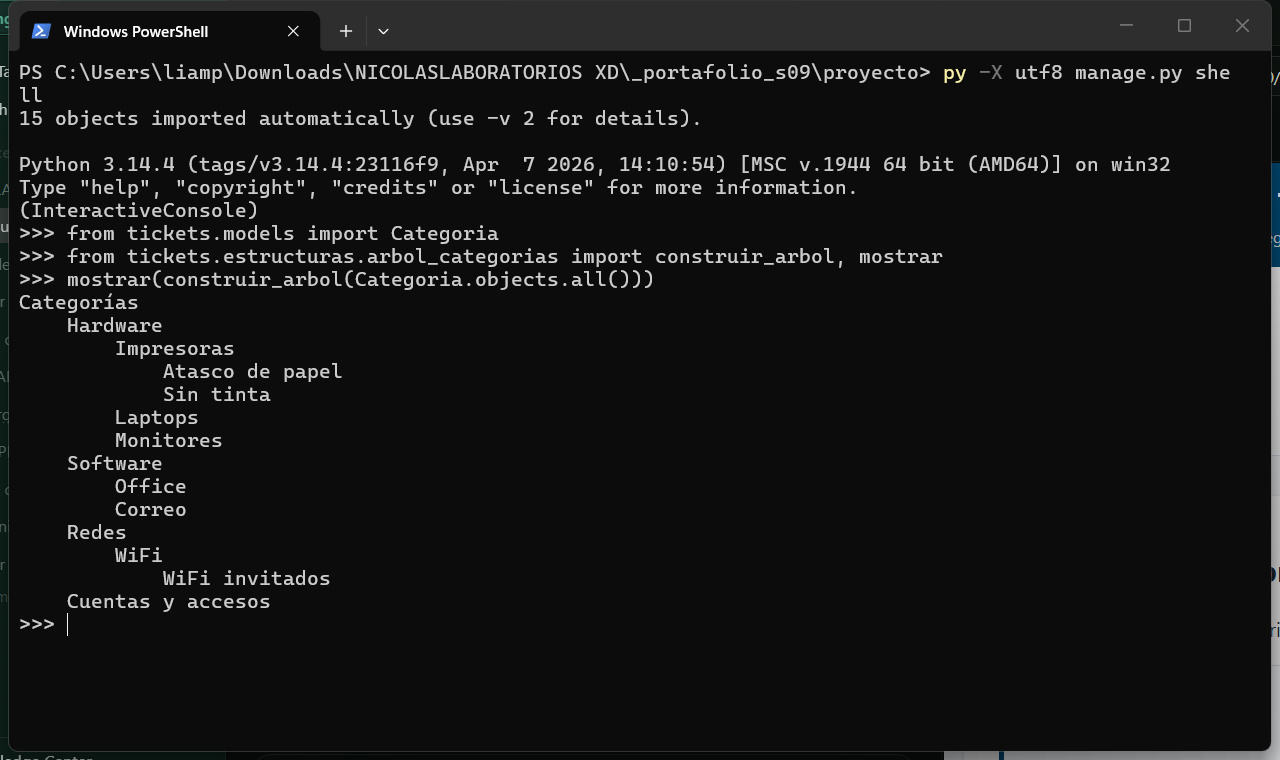
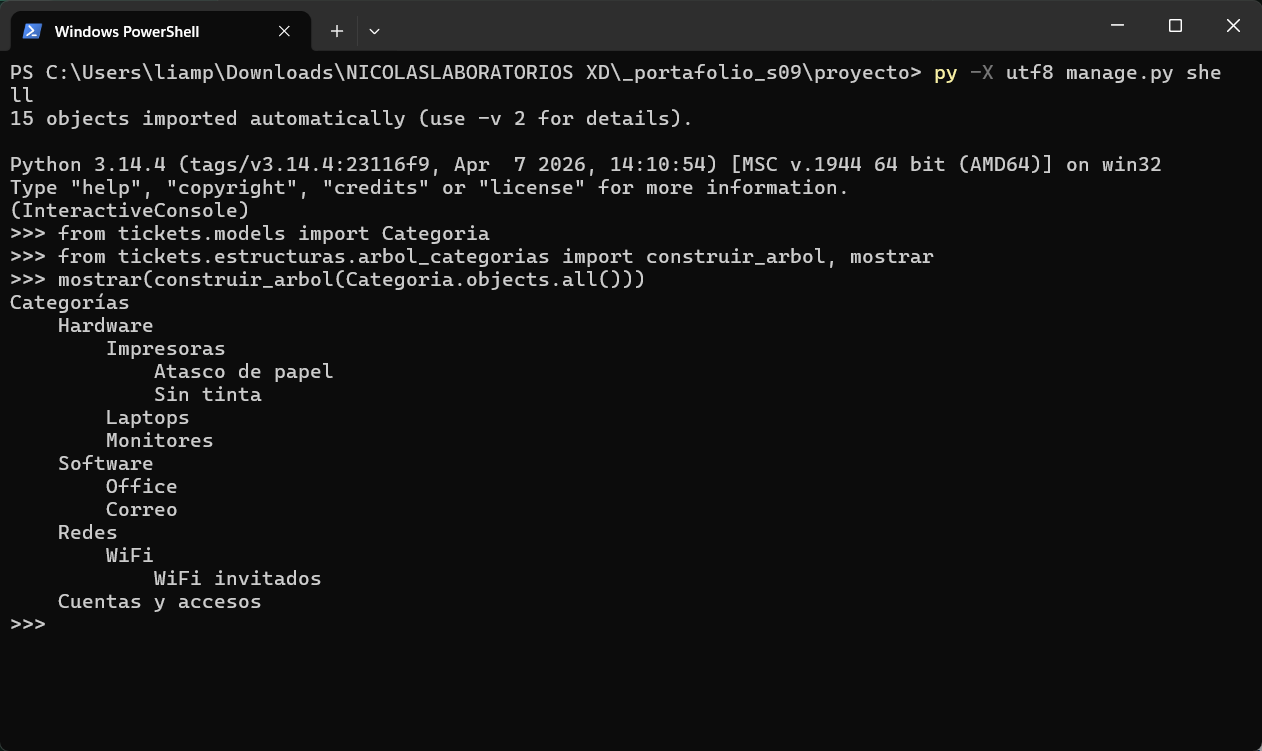
S09: enlace del push y captura limpia del arbol en shell

diff --git a/README.md b/README.md
@@ -65,15 +65,9 @@ descendiente de la propia categoría.
 
 ### Commit de la Semana 9
 
-Pendiente de subir al repositorio del equipo:
+Enlace del commit: https://github.com/NIckKIng6969/soporte-tickets-django/commit/53f38ec15d35c71909c65532af6b72c8cede5214
 
-```bash
-git add .
-git commit -m "S09: menú de categorías con árbol genérico"
-git push
-```
-
-Enlace del commit: _(pegar aquí después del push)_
+Repositorio: https://github.com/NIckKIng6969/soporte-tickets-django
 
 ---
 
